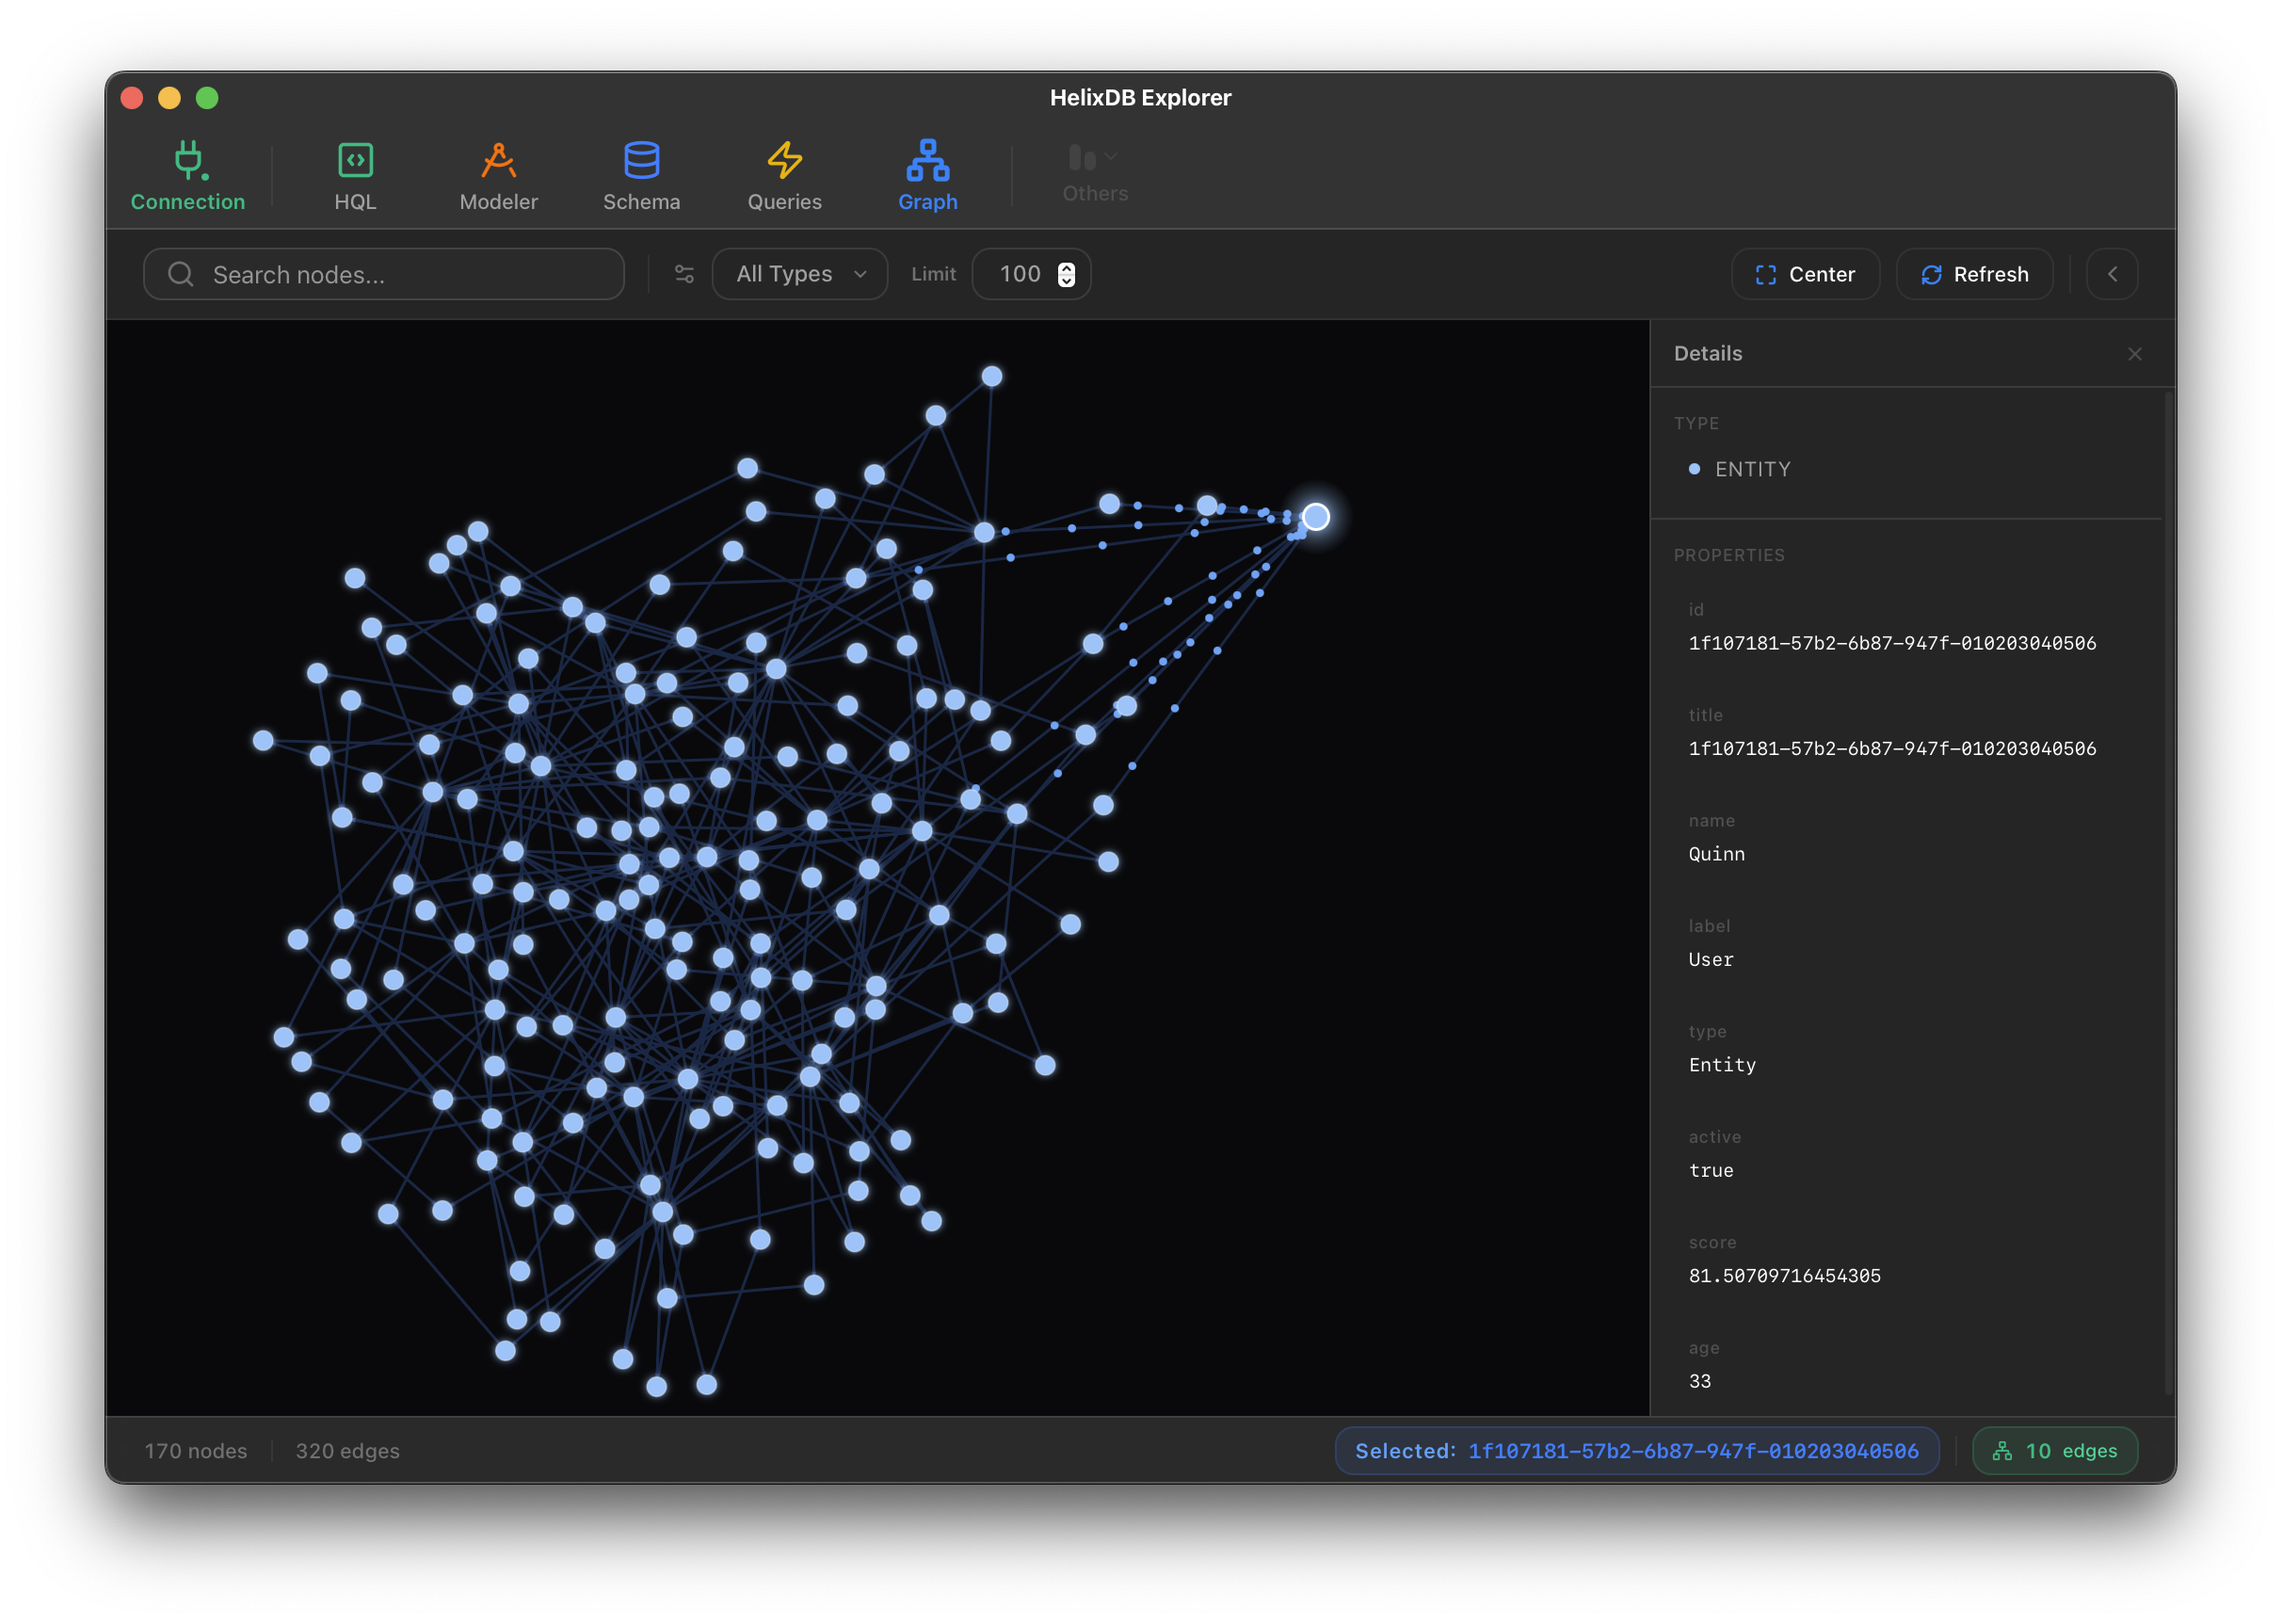
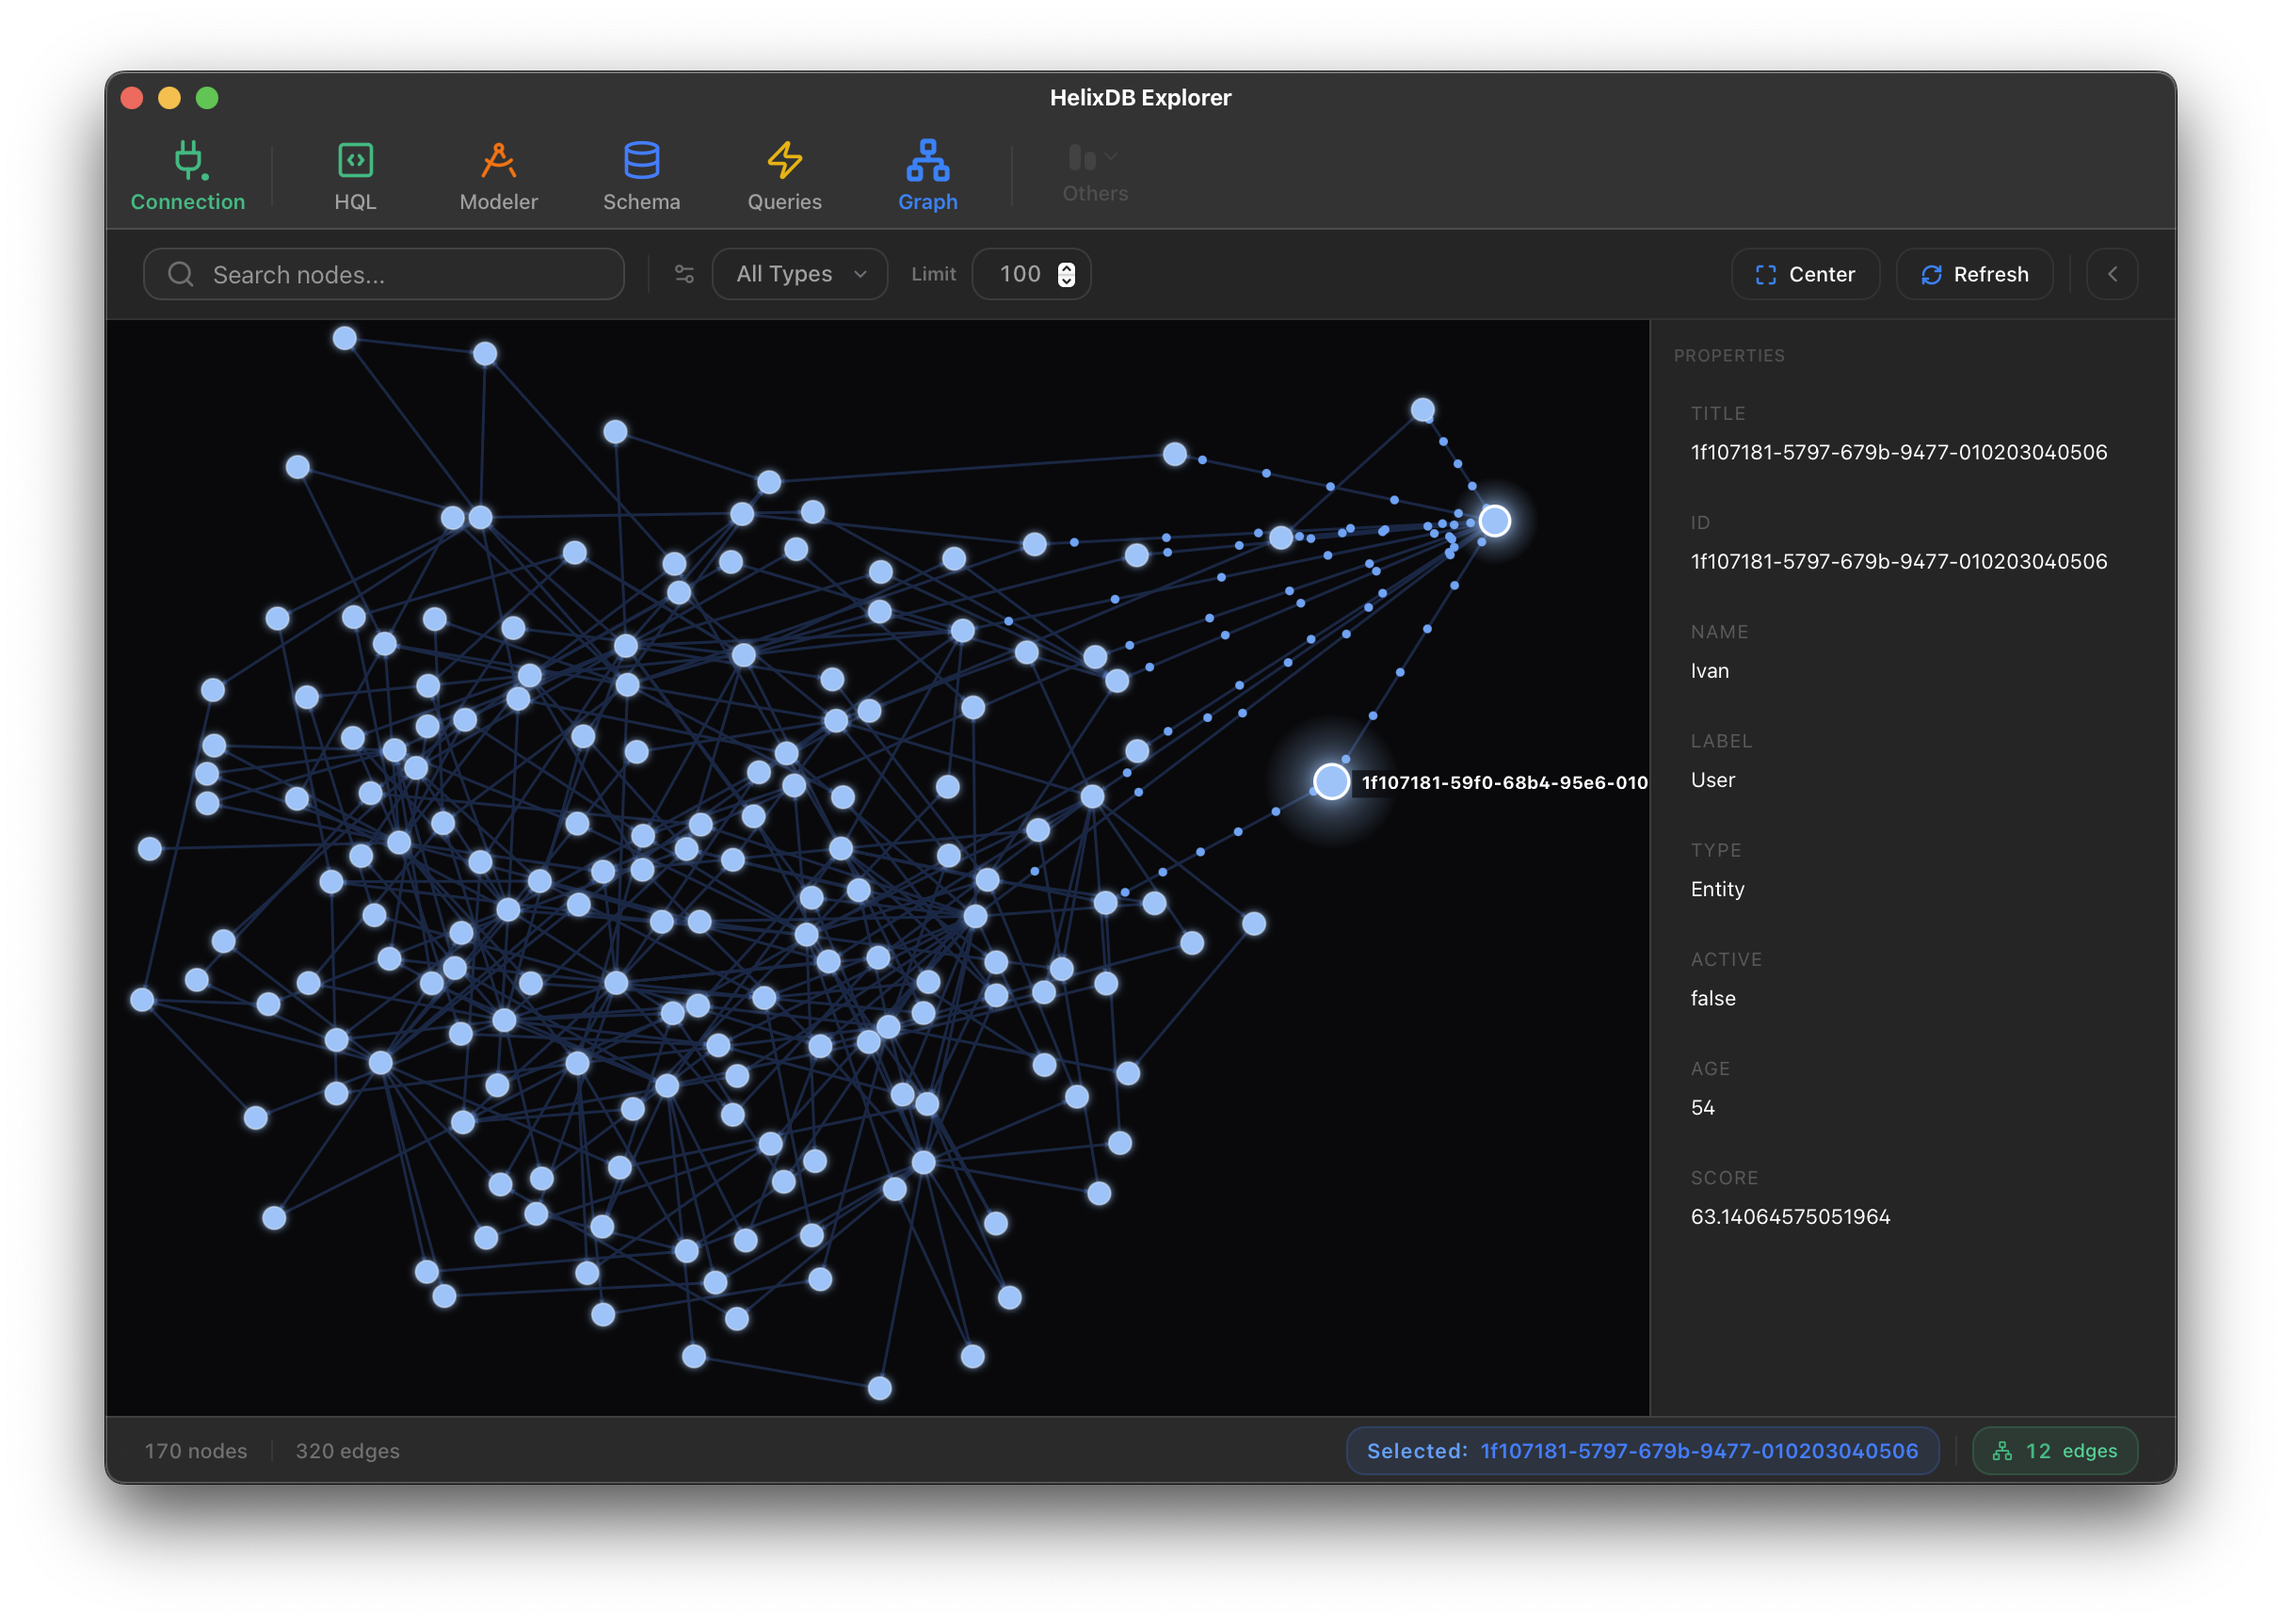
feat: update graph visualization and codegen logic; fix(ci): force dmg bundle and update release paths

diff --git a/packages/app/src/components/graph.tsx b/packages/app/src/components/graph.tsx
@@ -706,13 +706,6 @@ export const Graph = (props: GraphProps) => {
         {/* Detail Panel */}
         <Show when={showDetailPanel()}>
           <div class="w-[280px] flex-none border-l border-native overflow-hidden flex flex-col bg-native-sidebar-vibrant">
-            <div class="h-9 px-3 border-b border-native flex items-center justify-between flex-none">
-              <span class="text-[11px] font-semibold text-native-secondary">Details</span>
-              <button onClick={() => setShowDetailPanel(false)} class="p-1 rounded hover:bg-native-content/50 text-native-quaternary hover:text-native-primary transition-colors">
-                <X size={12} />
-              </button>
-            </div>
-
             <Show
               when={selectedNode()}
               fallback={
@@ -726,33 +719,23 @@ export const Graph = (props: GraphProps) => {
             >
               {(node) => (
                 <div class="flex-1 overflow-y-auto scrollbar-thin">
-                  <div class="p-3 border-b border-native space-y-2.5">
-                    <Show when={node().type}>
-                      <div>
-                        <div class="text-[9px] font-medium text-native-quaternary uppercase tracking-wide mb-1">Type</div>
-                        <div class="flex items-center gap-2 px-2 py-1.5">
-                          <div class="w-1.5 h-1.5 rounded-full" style={{ "background-color": getNodeColor(node()) }} />
-                          <span class="text-[11px] text-native-secondary uppercase tracking-wide">{node().type}</span>
-                        </div>
-                      </div>
-                    </Show>
-                  </div>
-
                   <div class="p-3">
                     <div class="text-[9px] font-medium text-native-quaternary uppercase tracking-wide mb-2">Properties</div>
 
-                    <div class="space-y-2">
+                    <div class="space-y-1">
                       <For each={Object.entries(node()).filter(([k]) => !["x", "y", "vx", "vy", "index", "__indexColor", "fx", "fy", "val", "color"].includes(k))}>
                         {([key, value]) => (
-                          <div class="rounded-md bg-native-content/10 hover:bg-native-content/20 transition-colors p-2">
-                            <div class="text-[9px] font-medium text-native-quaternary tracking-wide mb-1">{key}</div>
-                            <div class="text-[10px] font-mono text-native-primary break-all select-all">
+                          <div class="group rounded-md bg-native-content/5 hover:bg-native-content/10 transition-all p-2 border border-transparent hover:border-native-subtle">
+                            <div class="text-[10px] font-normal text-native-tertiary uppercase tracking-wider mb-1 opacity-70 group-hover:opacity-100 transition-opacity">{key}</div>
+                            <div class="text-[11px] font-sans text-native-primary break-all select-all leading-relaxed">
                               {value === null || value === undefined ? (
                                 <span class="text-native-quaternary italic">null</span>
                               ) : typeof value === "object" ? (
-                                <pre class="text-[9px] text-native-tertiary overflow-x-auto">{JSON.stringify(value, null, 2)}</pre>
+                                <pre class="text-[10px] font-mono text-native-tertiary bg-native-content/5 p-1.5 rounded border border-native-subtle mt-1 overflow-x-auto">
+                                  {JSON.stringify(value, null, 2)}
+                                </pre>
                               ) : (
-                                String(value)
+                                <span class={typeof value === "number" ? "tabular-nums" : ""}>{String(value)}</span>
                               )}
                             </div>
                           </div>
@@ -811,7 +794,7 @@ export const Graph = (props: GraphProps) => {
           <Show when={selectedNode()}>
             <div class="flex items-center gap-1.5 px-2.5 py-1 rounded-md bg-blue-500/10 border border-blue-500/20">
               <span class="text-[11px] font-semibold text-blue-400 tracking-wide">Selected:</span>
-              <span class="text-[11px] font-mono font-semibold text-blue-500">{(selectedNode() as any).id}</span>
+              <span class="text-[11px] font-semibold text-blue-500">{(selectedNode() as any).id}</span>
             </div>
 
             <div class="w-px h-4" style={{ "background-color": "var(--macos-border-light)" }} />

diff --git a/packages/app/src/lib/codegen.ts b/packages/app/src/lib/codegen.ts
@@ -285,38 +285,38 @@ export class HqlCodeGen {
         .filter((s) => s.trim() !== "")
         .join("\n\n")
         .trim();
-      if (cleanCrud) blocks.push(cleanCrud);
+      if (cleanCrud) blocks.push(`// --- DATA OPERATIONS (CRUD) ---\n${cleanCrud}`);
 
       const cleanDiscovery = discoverySegments
         .filter((s) => s.trim() !== "")
         .join("\n\n")
         .trim();
-      if (cleanDiscovery) blocks.push(cleanDiscovery);
+      if (cleanDiscovery) blocks.push(`// --- SEARCH & DISCOVERY ---\n${cleanDiscovery}`);
 
       const cleanPath = pathfindingSegments
         .filter((s) => s.trim() !== "")
         .join("\n\n")
         .trim();
-      if (cleanPath) blocks.push(cleanPath);
+      if (cleanPath) blocks.push(`// --- PATHFINDING & TRAVERSAL ---\n${cleanPath}`);
 
       const cleanIntelligence = intelligenceSegments
         .filter((s) => s.trim() !== "")
         .join("\n\n")
         .trim();
-      if (cleanIntelligence) blocks.push(cleanIntelligence);
+      if (cleanIntelligence) blocks.push(`// --- SMART VIEWS & INSIGHTS ---\n${cleanIntelligence}`);
 
       const cleanAnalytics = analyticsSegments
         .filter((s) => s.trim() !== "")
         .join("\n\n")
         .trim();
-      if (cleanAnalytics) blocks.push(cleanAnalytics);
+      if (cleanAnalytics) blocks.push(`// --- CONTEXTUAL ANALYTICS ---\n${cleanAnalytics}`);
 
-      // Join categories with DOUBLE blank lines (\n\n\n)
-      const entityBlock = blocks.join("\n\n\n");
+      // Join categories with SINGLE blank lines (\n\n)
+      const entityBlock = blocks.join("\n\n");
       if (entityBlock) allEntitiesSegments.push(entityBlock);
     }
 
-    return allEntitiesSegments.join("\n\n// " + "=".repeat(40) + "\n\n");
+    return allEntitiesSegments.join("\n\n");
   }
 
   // Helper for strict PascalCase (removes underscores)
